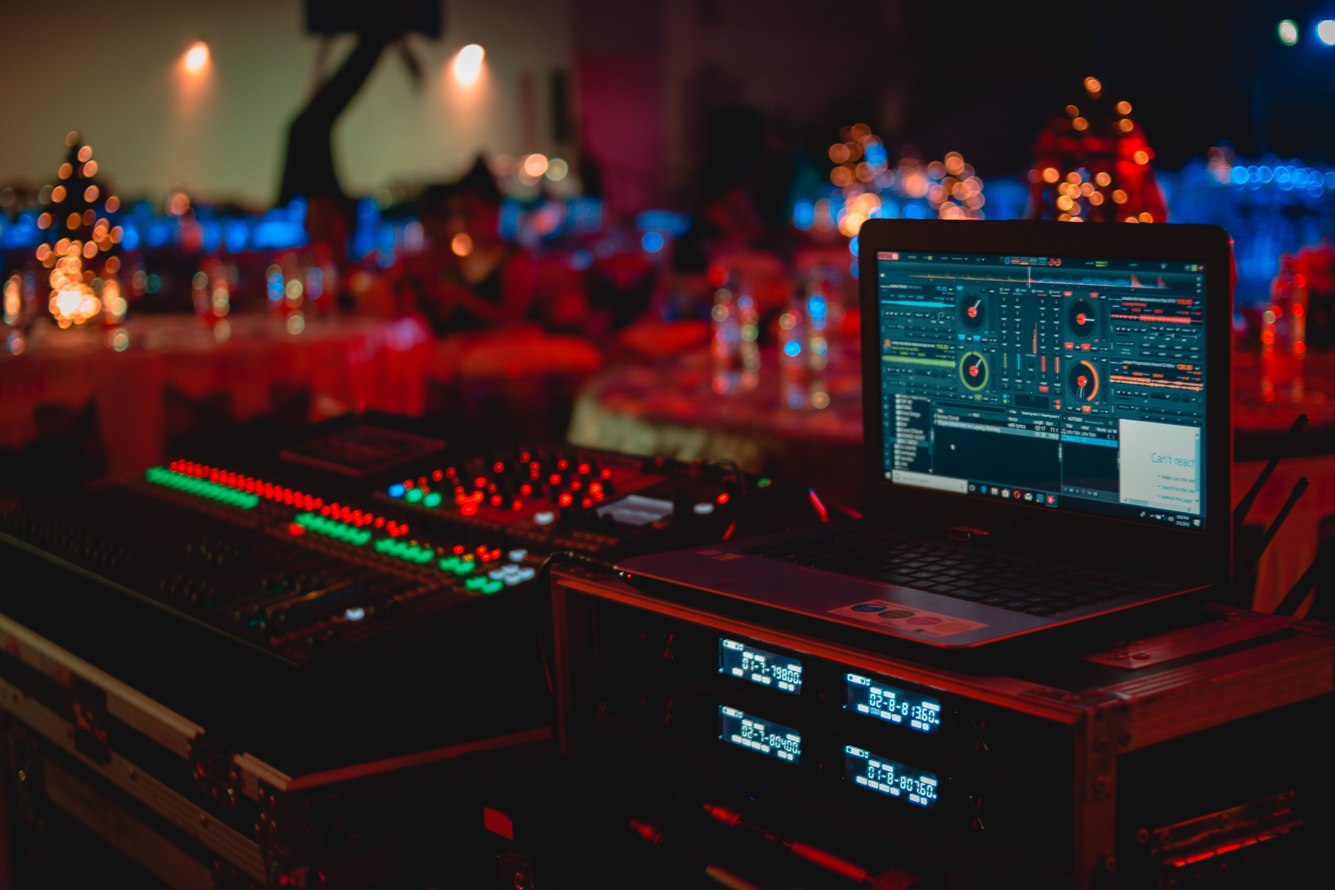
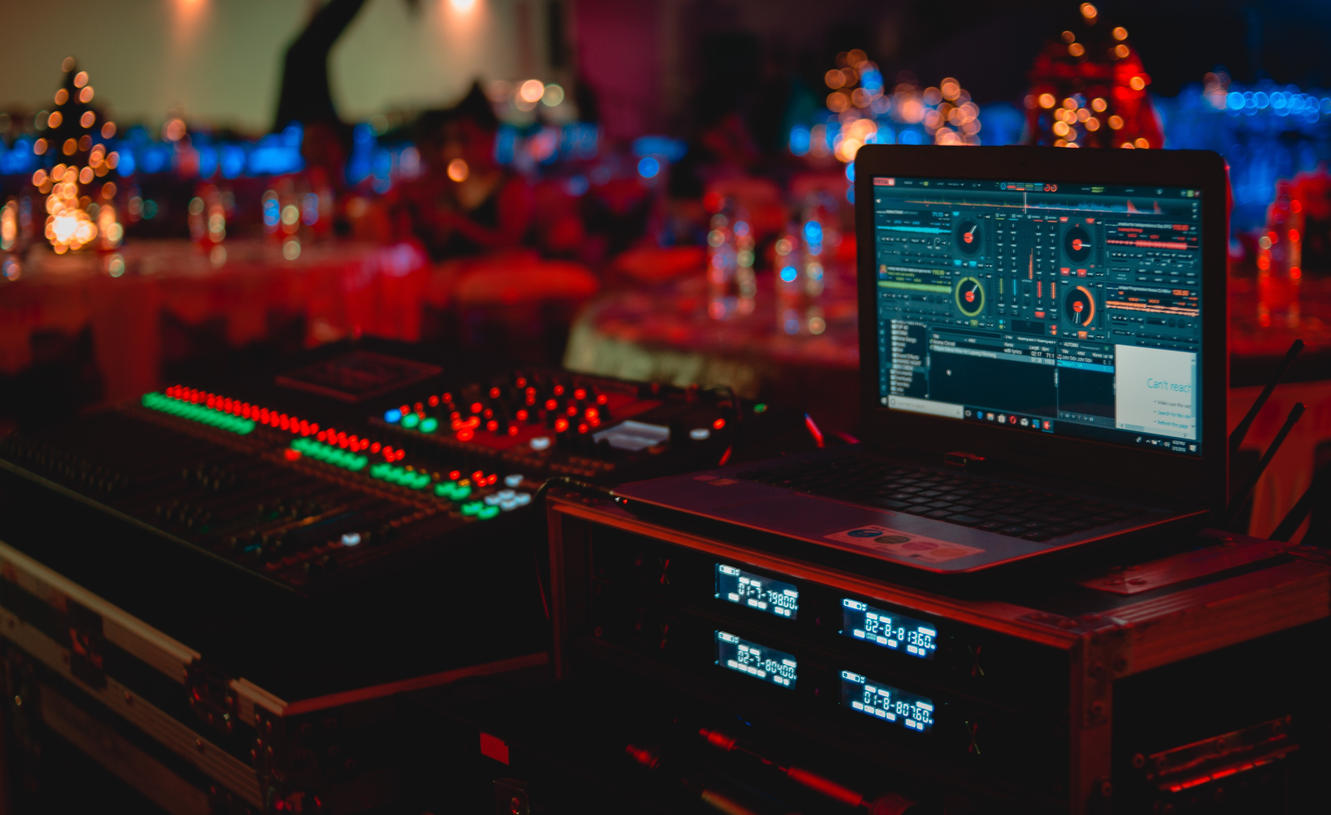
added responsive formatting to page; cleaned up css

diff --git a/index.html b/index.html
@@ -4,13 +4,13 @@
     <meta charset="UTF-8">
     <meta name="viewport" content="width=device-width, initial-scale=1.0">
     <title>InternetEthan - Portfolio</title>
-    <link rel="stylesheet" href="style.css">
+    <link rel="stylesheet" href="/assets/css/style.css">
 </head>
 <body>
     
     
     <header>
-        <div>Ethan Butler</div>
+        <div class="section-title">Ethan Butler</div>
         <nav>
             <ul>
                 <li>About Me</li>
@@ -20,26 +20,38 @@
             </ul>
         </nav>
     </header>
-    
+    <figure class="header-image"><img src="/assets/images/pexels-felix-mittermeier-956999.jpg"></figure>
     
     <main>
         <section>
-            <div class="section title">About Me</div>
+            <div class="section-title">About Me</div>
             <article>Lorem, ipsum dolor sit amet consectetur adipisicing elit. Dolorum labore quia laboriosam amet voluptatibus excepturi fugit tempore eum nostrum iusto facilis voluptas perferendis cum corporis dolores, explicabo libero beatae? Dolor?</article>
         </section>
         <section>
-            <div class="section title">Work</div>
+            <div class="section-title">Work</div>
+            <figure class="major-project"><img src="/assets/images/pexels-abet-llacer-919734.jpg" alt="soundBoard"></figure>
+        </section>
+        <section>
+            <div class="section-title"></div>
+            <div class="other-projects">
+            <figure class="minor-projects"><img src="/assets/images/pexels-johannes-plenio-1105379.jpg" alt="motherBoard"></figure>
+            <figure class="minor-projects"><img src="/assets/images/pexels-marko-blazevic-2708981.jpg" alt="gameBoy"></figure>
+            <figure class="minor-projects"><img src="/assets/images/pexels-pixabay-257699.jpg" alt="drone"></figure>
+            <figure class="minor-projects"><img src="/assets/images/pexels-wendy-wei-1555900.jpg" alt="electricThing"></figure>
+        </div>
         </section>
     </main>
 
 
     <footer>
-        <div class="section title">Contact Me</div>
-        <ul>
+        <div class="section-title">Contact Me</div>
+        <div>
+            <ul>
             <li>555.555.5555</li>
             <li>interntethan@gmail.com</li>
             <li>GitHub</li>
-        </ul>
+            </ul>
+        </div>
     </footer>
 </body>
 </html>

diff --git a/assets/CSS/style.css b/assets/CSS/style.css
@@ -1,18 +1,38 @@
 * {
     box-sizing: border-box;
-    padding: 5px;
-    border: 2px dotted black;
+    width: 100%;
+    margin: 0;
+    list-style-type: none;
+}
+
+header, ul, footer, section, .other-projects{
+    display: flex;
+}
+
+.header-image {
+    width: 100%;
+    padding: 0;
+}
+
+.section-title {
+    width: 30%;
+    border-right: 2px solid black;
+}
+
+.other-projects {
+    flex-wrap: wrap;
+}
+
+.major-project {
     width: 100%;
 }
 
-header, ul, footer {
-    display: flex;
+.minor-projects {
+    width: 50%;
 }
 
-ul {
-    display: flex;
-}
-
-section {
-    display: flex;
+@media screen and (max-width: 480px) {
+    .minor-projects {
+        width: 100%;
+    }
 }
